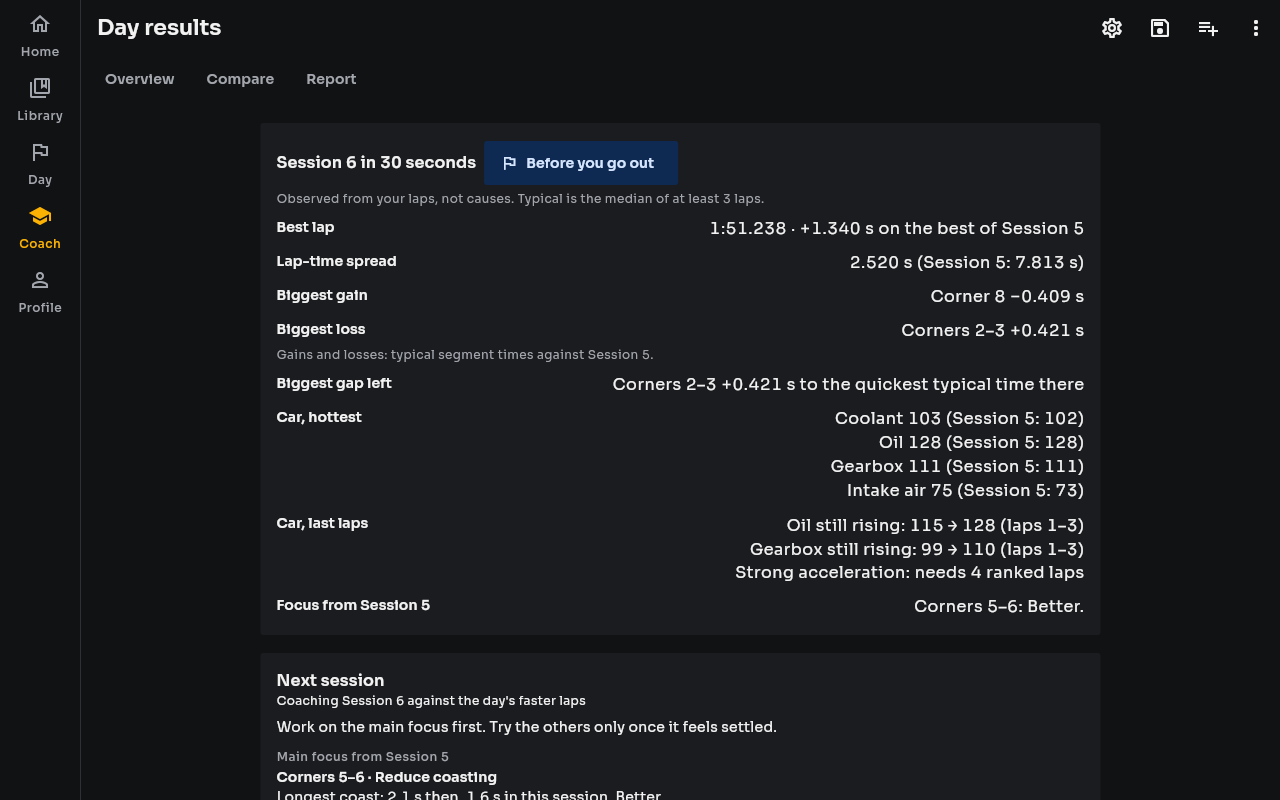
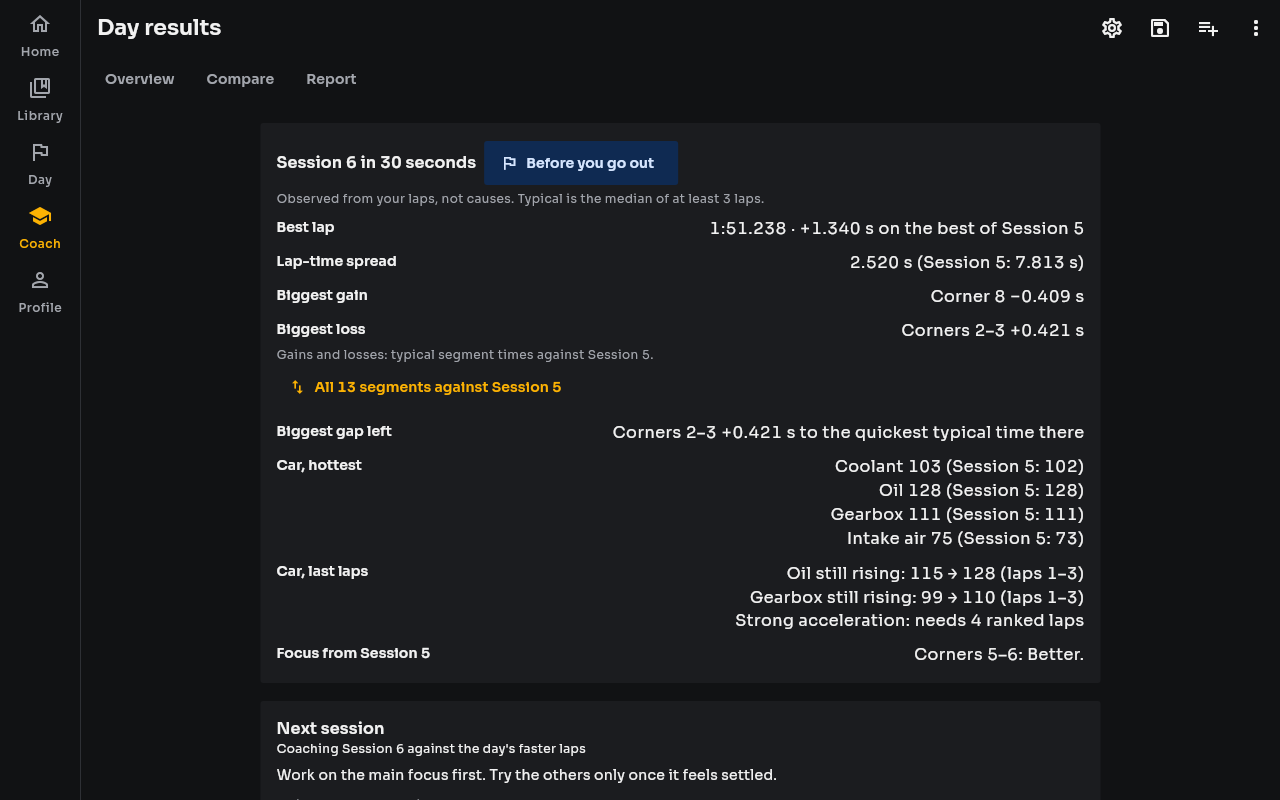
Every segment since the session before: guide and screenshot (FET-236)
Claude-Session: https://claude.ai/code/session_014pCmgHGRka3SUZbzm8LTeW

diff --git a/docs/user-guide/pages/day.html b/docs/user-guide/pages/day.html
@@ -42,7 +42,7 @@
 <h2 id="summary">The session in 30 seconds</h2>
 <p>At the top of <strong>Coach</strong>, <strong>Session 6 in 30 seconds</strong> sums up the session recorded last (the one the <a href="#next">Next session</a> card coaches) in a few lines, so you do not have to look through the day page between sessions. Every number comes from the day's other results; nothing is measured differently here. They are observations from your laps, not causes.</p>
 <figure>
-  <img src="assets/screens/session-summary.png" alt="Session 6 in 30 seconds, with the Before you go out button: best lap 1:51.238, +1.340 s on the best of Session 5; lap-time spread 2.520 s against 7.813 s; biggest gain Corner 8 −0.409 s; biggest loss Corners 2–3 +0.421 s; biggest gap left Corners 2–3 +0.421 s; the hottest coolant, oil, gearbox and intake air against Session 5; car over the last laps: oil still rising 115 → 128 and gearbox 99 → 110 over laps 1–3, strong acceleration needs 4 ranked laps; focus from Session 5 Corners 5–6: Better" width="1280" height="800" loading="lazy">
+  <img src="assets/screens/session-summary.png" alt="Session 6 in 30 seconds, with the Before you go out button: best lap 1:51.238, +1.340 s on the best of Session 5; lap-time spread 2.520 s against 7.813 s; biggest gain Corner 8 −0.409 s; biggest loss Corners 2–3 +0.421 s; the All 13 segments against Session 5 button; biggest gap left Corners 2–3 +0.421 s; the hottest coolant, oil, gearbox and intake air against Session 5; car over the last laps: oil still rising 115 → 128 and gearbox 99 → 110 over laps 1–3, strong acceleration needs 4 ranked laps; focus from Session 5 Corners 5–6: Better" width="1280" height="800" loading="lazy">
 </figure>
 <ul>
   <li><strong>Best lap</strong>: the session's best lap and whether it is a new best of the day, with the difference to the best of the other sessions, for example <em>1:49.898 · new best of the day (−3.379 s)</em>; otherwise how far it is from the best of the session that set it, or that it equals it.</li>
@@ -61,6 +61,13 @@
   <li><strong>Your goal</strong>: one line for each of <a href="#goals">your own goals</a> set after the session before, checked the same way, for example <em>Your goal: Corner 3 · Reduce coasting. Longest coast: 1.8 s then, 1.2 s in this session. Better.</em></li>
 </ul>
 <p>The segment lines wait for the <a href="theoretical-best.html">theoretical best</a>, so they say <em>Working…</em> for a moment after a session is added; without a theoretical best they are replaced by one line saying so. If the session recorded last has no laps on the circuit shown, the card says so.</p>
+<h3 id="changes">Every segment since the session before</h3>
+<p>Under <strong>Biggest gain</strong> and <strong>Biggest loss</strong>, a button such as <strong>All 13 segments against Session 5</strong> opens every segment the summary compared, not only the two biggest changes. It shows the lap-time spread of both sessions, then two lists: <strong>Quicker</strong> and <strong>Slower</strong>, each with the biggest change first. Each segment shows its typical (median) time in both sessions and the difference, for example <em>Corner 8 · Typical 6.046 s (Session 5: 6.455 s) · −0.409 s</em>, and under it the spread of the middle half of its times in both sessions. As on the summary, a change under 0.05 s is not counted: those segments are counted in one line at the end, and a list with no segment says so. A segment needs a typical time, so at least 3 laps through it, in both sessions. The numbers are the summary's own; they are observations from your laps, not causes.</p>
+<figure>
+  <img src="assets/screens/session-changes.png" alt="Since Session 5: lap-time spread 2.520 s (Session 5: 7.813 s); quicker: Corner 8 −0.409 s, Corner 7 −0.312 s, Corner 4 −0.162 s; slower: Corners 2–3 +0.421 s, Corners 5–6 +0.297 s, Straight 2 +0.293 s, Straight 4 +0.267 s, Straight 1 +0.180 s, Straight 7 +0.114 s, each with its typical time and spread in both sessions" width="1280" height="800" loading="lazy">
+</figure>
+<p>When the comparison cannot be made, the page says why, as the summary does: the first session of the day, no earlier session with a ranked lap, no segment timed in both, or no theoretical best yet.</p>
+
 <h3 id="briefing">Before you go out</h3>
 <p><strong>Before you go out</strong>, beside the summary's title, opens a page for the minutes between sessions, to read at the car in large type, gathered from the session recorded last. It keeps the app's bar or rail. As on Coach, the screen stays on while it is open unless <strong>Keep the screen on while Coach is shown</strong> is turned off in Settings, and the <a href="phone.html#sunlight">Sunlight</a> look applies here too.</p>
 <figure>

diff --git a/tool/user_guide/capture_screens_test.dart b/tool/user_guide/capture_screens_test.dart
@@ -531,6 +531,14 @@ void main() {
     await tester.pumpAndSettle();
     await shot(tester, 'briefing');
     await back(tester);
+    // Every segment since the session before, from the session summary.
+    final changes = find.byKey(const ValueKey('sessionSummaryChanges'));
+    await scrollIn(tester, list('dayResultsCoach'), changes, delta: -300);
+    await tester.pumpAndSettle();
+    await tester.tap(changes);
+    await tester.pumpAndSettle();
+    await shot(tester, 'session-changes');
+    await back(tester);
     // The observations, on the Overview.
     await tester.tap(find.byKey(const ValueKey('place-day')));
     await tester.pumpAndSettle();
